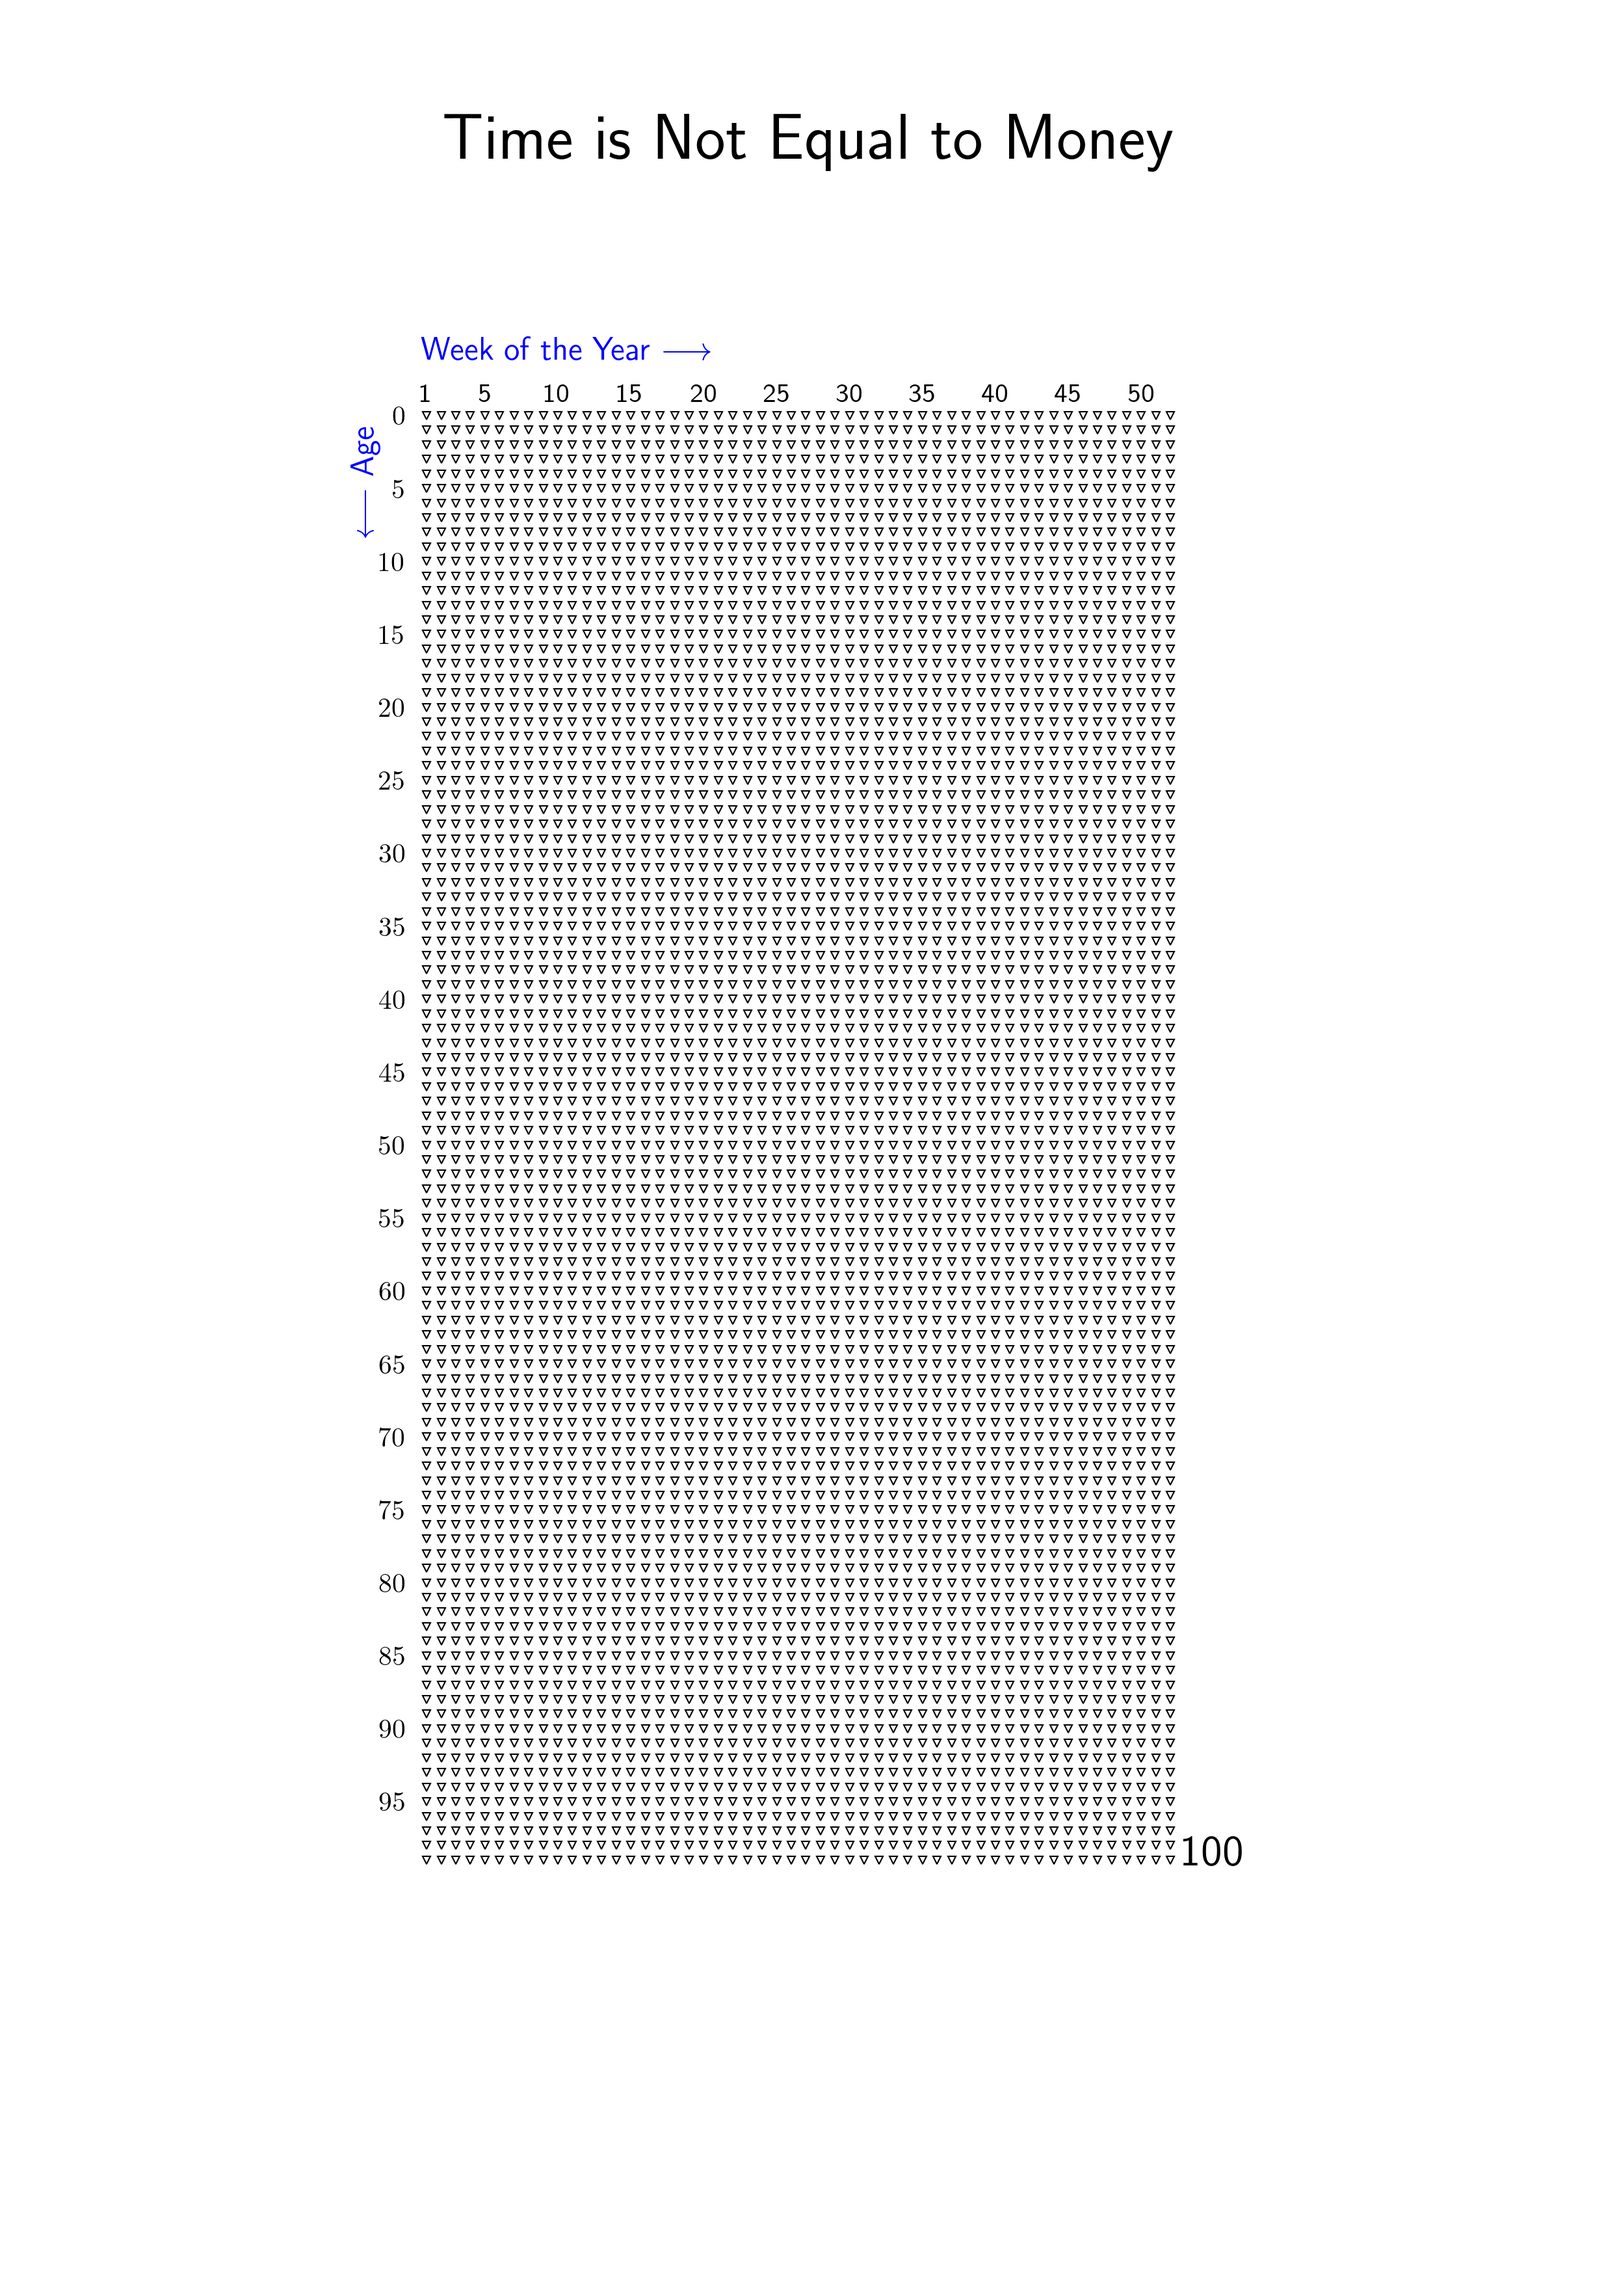
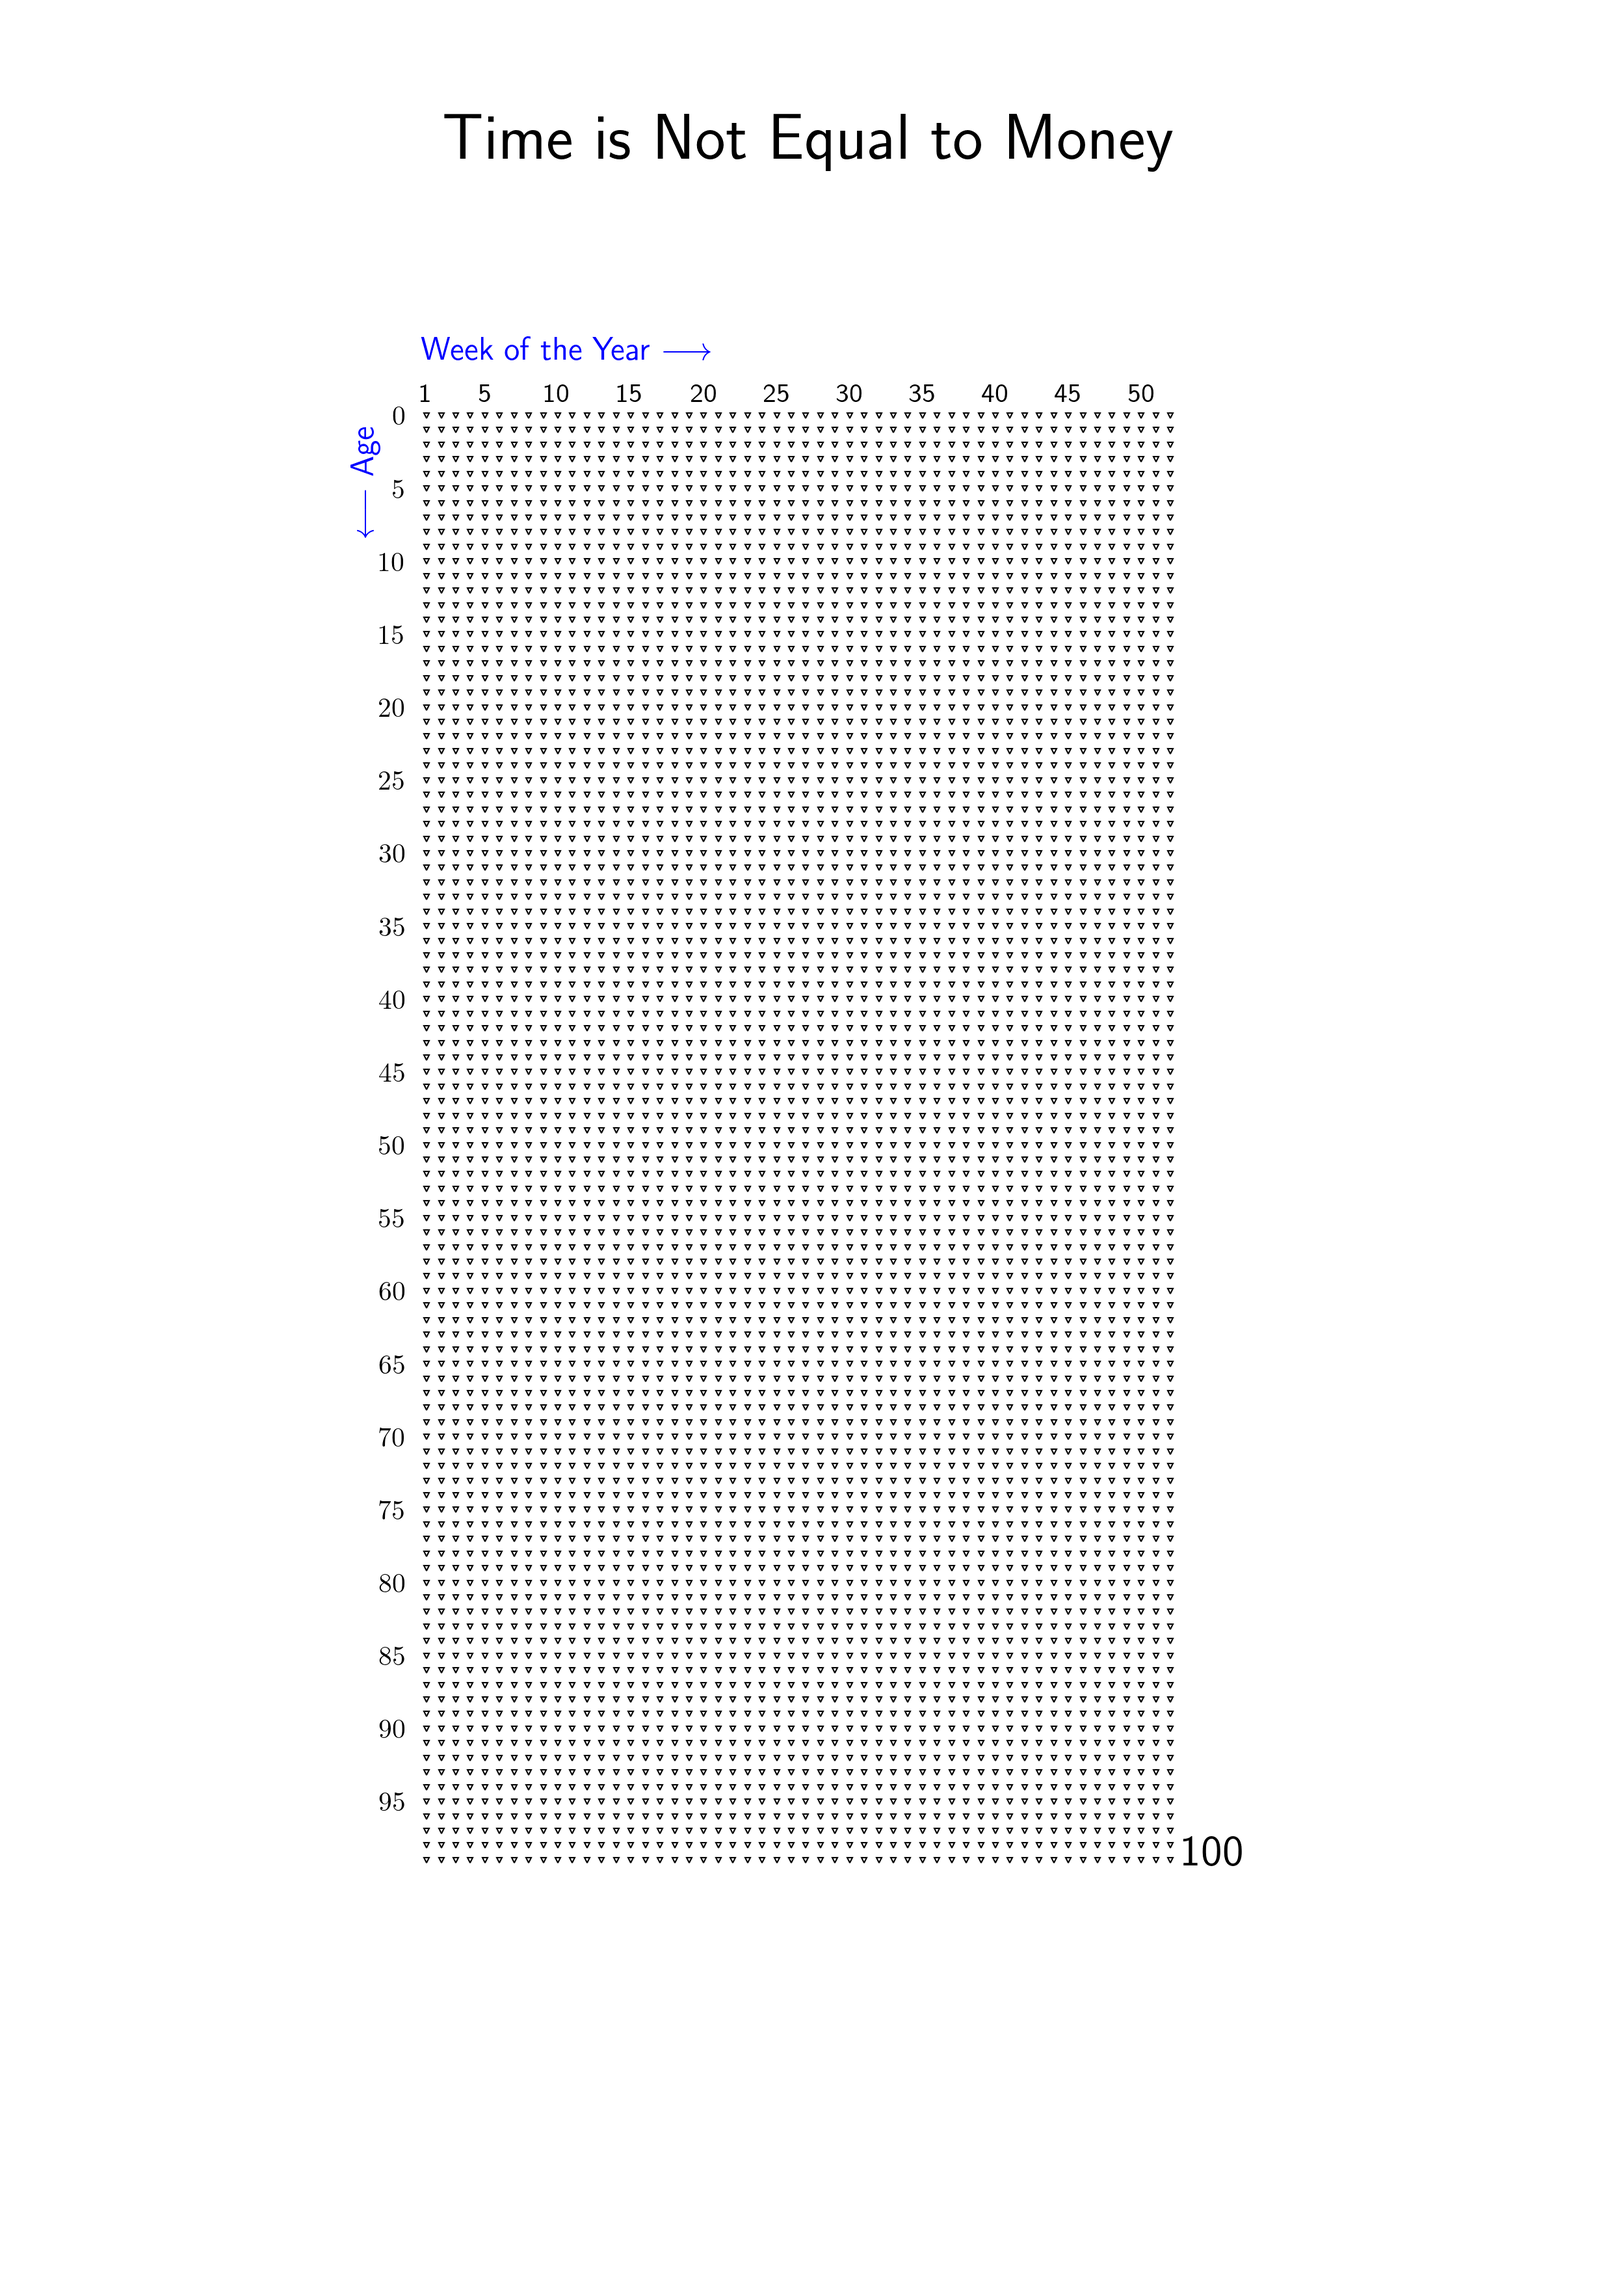
adding grid customization example

Changed region(s): [[0.2474, 0.1863, 0.7422, 0.8074]]

diff --git a/examples/grid_customization.py b/examples/grid_customization.py
@@ -9,5 +9,6 @@ if __name__ == '__main__':
     g.show_max_age_label()
 
     g.settings.rcParams["lines.marker"] = 'v'
+    g.settings.rcParams["lines.markersize"] = 2.0
 
     g.save("images/grid_customization.png")

diff --git a/README.md b/README.md
@@ -8,6 +8,7 @@
 [grid_era]: examples/images/grid_era.png "An era"
 [grid_era_span]: examples/images/grid_era_span.png "An era span"
 [grid_add_image]: examples/images/grid_add_image.png "Add an image"
+[grid_customization]: examples/images/grid_customization.png "Customize the grid"
 
 # Life Graph
 Inspired by [this post](https://waitbutwhy.com/2014/05/life-weeks.html), I decided I wanted to make my own graph of my life.
@@ -172,6 +173,32 @@ g.add_image("couple.jpg", alpha=0.5)
 g.save("images/grid_add_image.png")
 ```
 ![Adding an image][grid_add_image]
+
+# Customize the Grid
+The grid properties for each papersize is controlled by the matplotlib rc paramters. The paramters
+for each papersize can be found in [the configuration file](lifegraph/configuration.py).
+```
+from lifegraph.lifegraph import Lifegraph, Papersize
+from datetime import date
+
+birthday = date(1990, 11, 1)
+g = Lifegraph(birthday, dpi=300, size=Papersize.A4, max_age=100)
+
+g.add_title("Time is Not Equal to Money")
+g.show_max_age_label()
+
+g.settings.rcParams["lines.marker"] = 'v'
+g.settings.rcParams["lines.markersize"] = 2.0
+
+g.save("images/grid_customization.png")
+```
+
+There are a number of other rc parameters defined for this package. There are really
+too many to provide an example of each. Please see the availabel 
+configurations for a better idea of what can be customized. Some of the 
+customizable parameters can be set with the lifegraph. For example, `g.format_x_axis(positionx=0, positiony=0)` is equivalent to `g.settings.otherParams['xlabel.position'] = (0, 0)` (both coordinates are in axes coordinates) and would move the 'Week of the year ->' text to the bottom left of the graph.
+
+![Customizing the grid][grid_customization]
 
 # Contributing and Code of Conduct
 [Read our contributing guidelines](docs/CONTRIBUTING)
